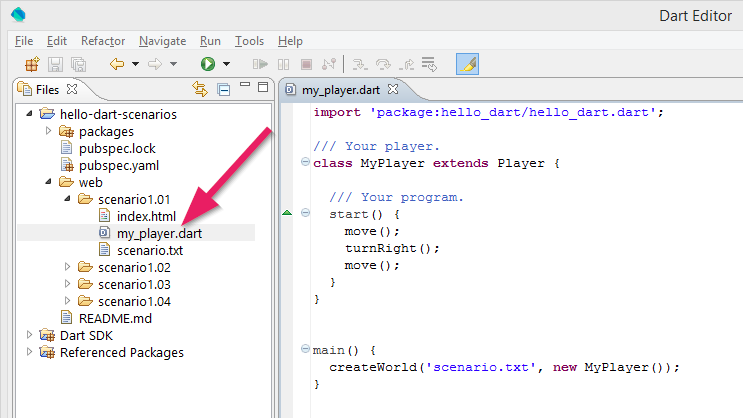
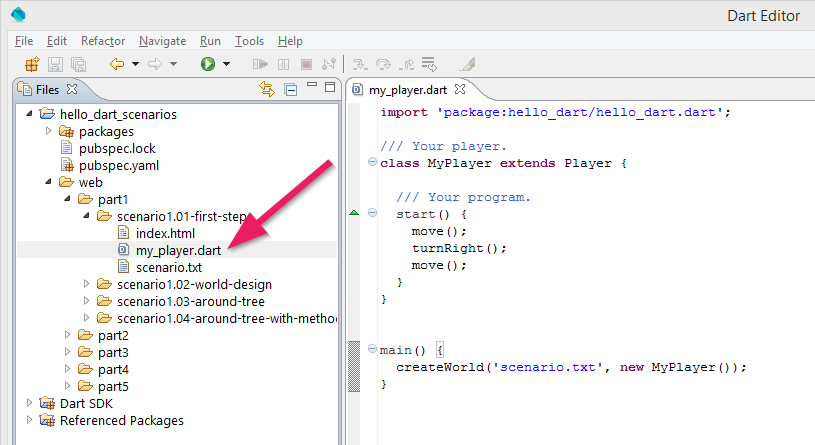
auto commit (mixture)

Changed region(s): [[0.0, 0.0, 1.0, 1.0], [0.8668, 0.0, 0.9906, 0.0622], [0.7429, 0.8708, 0.9287, 0.9019]]

diff --git a/library/hello-dart/de/install/index.html b/library/hello-dart/de/install/index.html
@@ -127,7 +127,7 @@
   </div>
 
   <div class="list-group">
-      <a href="https://www.dartlang.org/tools/editor/" class="list-group-item">
+      <a href="https://www.dartlang.org/tools/download.html" class="list-group-item">
 <i class="fa fa-fw fa-download"></i>        Dart Editor Download</a>
       <a href="https://github.com/marcojakob/hello-dart/releases" class="list-group-item">
 <i class="fa fa-fw fa-download"></i>        Hello Dart Szenarien</a>
@@ -174,7 +174,7 @@
   <button type="button" class="btn btn-default dropdown-toggle" data-toggle="dropdown">Links <span class="caret"></span>
   </button>
   <ul class="dropdown-menu" role="menu">
-      <li class=""><a href="https://www.dartlang.org/tools/editor/">
+      <li class=""><a href="https://www.dartlang.org/tools/download.html">
 <i class="fa fa-fw fa-download"></i>        Dart Editor Download</a></li>
       <li class=""><a href="https://github.com/marcojakob/hello-dart/releases">
 <i class="fa fa-fw fa-download"></i>        Hello Dart Szenarien</a></li>
@@ -186,7 +186,11 @@
           </aside>
           
           <div class="article-content">
-            <p>Zum Programmieren von Dart brauchen wir den <strong>Dart Editor</strong> und die <code>Hello-Dart</code>-Szenarien.</p>
+            <p>Zum Programmieren brauchen wir... </p>
+<ul>
+<li>den <strong>Dart Editor</strong> und </li>
+<li>die <code>Hello-Dart</code>-Szenarien.</li>
+</ul>
 <h2 id="dart-editor-installieren">Dart Editor installieren</h2>
 <ol>
 <li><a href="https://www.dartlang.org/tools/download.html">Laden Sie den Dart Editor herunter</a></li>
@@ -234,10 +238,10 @@
 <p><img src="/assets/library/hello-dart/install/dart-editor.png" alt="Dart Editor"></p>
 <h2 id="-hello-dart-szenarien-ffnen"><code>Hello Dart</code> Szenarien öffnen</h2>
 <ol>
-<li>Laden Sie unter <a href="https://github.com/marcojakob/hello-dart/releases">Hello Dart-Releases</a> die aktuellste Version der Senarien herunter.  </li>
+<li>Laden Sie unter <a href="https://github.com/marcojakob/hello-dart/releases">Hello Dart-Releases</a> die Zip-Datei <code>hello_dart_scenarios.zip</code> herunter (nehmen Sie die neuste Version).  </li>
 <li>Entpacken Sie die Zip-Datei.</li>
-<li>Im Dart Editor: Klicken Sie auf <em>File</em> | <em>Open Existing Folder...</em>. Wählen Sie dort den Ordner <code>hello-dart-scenarios</code> aus, den Sie vorher entpackt haben.</li>
-<li>Öffnen Sie im Unterordner <code>web/scenario1.01</code> die Datei <code>my_player.dart</code> mit einem Doppelklick.   <p>
+<li>Im Dart Editor: Klicken Sie auf <em>File</em> | <em>Open Existing Folder...</em>. Wählen Sie dort den Ordner <code>hello_dart_scenarios</code> aus, den Sie vorher entpackt haben.</li>
+<li>Öffnen Sie im Unterordner <code>web/part1/scenario1.01</code> die Datei <code>my_player.dart</code> mit einem Doppelklick.   <p>
 <img src="/assets/library/hello-dart/install/my-player.png" alt="My Player">
 </p></li>
 <li>Klicken Sie auf das <em>Run</em>-Symbol <img src="/assets/library/hello-dart/install/run.png" alt="Run">.</li>
@@ -251,8 +255,7 @@
 <p><em>Quellen</em><br>
 <em class="small">
 <a href="http://www.lostgarden.com/2007/05/dancs-miraculously-flexible-game.html">Planet Cute</a> Bilder stammen von Daniel Cook (Lostgarden.com), veröffentlicht unter <a href="http://creativecommons.org/licenses/by/3.0/us/">CC BY 3.0</a>.<br>
-<a href="https://www.linkedin.com/in/olegyadrov">Oleg Yadrov</a> hat die "Planet Cute" Bilder weiterentwickelt und sie mir zur Verfügung gestellt.<br>
-Viele Übungen in <code>Hello Dart</code> sind inspiriert von <a href="http://www.swisseduc.ch/informatik/karatojava/">Kara</a>. Kara wurde entwickelt von Jürg Nievergelt, Werner Hartmann, Raimond Reichert und anderen.
+<a href="https://www.linkedin.com/in/olegyadrov">Oleg Yadrov</a> hat die "Planet Cute" Bilder weiterentwickelt und sie mir zur Verfügung gestellt.
 </em></p>
 
 

diff --git a/library/hello-dart/de/index.html b/library/hello-dart/de/index.html
@@ -168,7 +168,7 @@
 </blockquote>
 <p>Bisher war es kaum realistisch, als Programmieranfänger mobile oder webbasierte
 Applikationen zu entwickeln. Die Programmiersprache Dart bietet neue Möglichkeiten, wie solche Applikationen viel einfacher programmiert werden können.</p>
-<p><code>Hello Dart</code> setzt keine Programmierkenntnisse voraus und führt Sie schrittweise durch die Grundlagen der Programmierung. Die spielerische Welt von <code>Hello Dart</code> veranschaulicht Ihre Programme. Bald werden sie aber aus den engen Regeln dieser Welt ausbrechen wollen, was auch das Ziel ist. Nach der Einführung mit <code>Hello Dart</code> werden wir bereits Programmierprojekte realisieren, wie sie in der professionellen Softwareentwicklung durchgeführt werden.</p>
+<p><code>Hello Dart</code> setzt keine Programmierkenntnisse voraus und führt Sie schrittweise durch die Grundlagen der Programmierung. Die spielerische Welt von <code>Hello Dart</code> veranschaulicht Ihre Programme. Bald werden sie aber aus den engen Regeln dieser Welt ausbrechen wollen, was auch das Ziel ist. Nach der Einführung mit <code>Hello Dart</code> haben Sie eine gute Grundlage, um werden wir bereits Programmierprojekte realisieren, wie sie in der professionellen Softwareentwicklung durchgeführt werden.</p>
 <h2 id="die-welt">Die Welt</h2>
 <p>Die Welt von <code>Hello Dart</code> besteht aus Feldern, Bäumen und Sternen.</p>
 <p><img src="/assets/library/hello-dart/intro/elements.png" alt="Elemente"></p>
@@ -268,8 +268,7 @@ Applikationen zu entwickeln. Die Programmiersprache Dart bietet neue Möglichkei
 <p><em>Quellen</em><br>
 <em class="small">
 <a href="http://www.lostgarden.com/2007/05/dancs-miraculously-flexible-game.html">Planet Cute</a> Bilder stammen von Daniel Cook (Lostgarden.com), veröffentlicht unter <a href="http://creativecommons.org/licenses/by/3.0/us/">CC BY 3.0</a>.<br>
-<a href="https://www.linkedin.com/in/olegyadrov">Oleg Yadrov</a> hat die "Planet Cute" Bilder weiterentwickelt und sie mir zur Verfügung gestellt.<br>
-Viele Übungen in <code>Hello Dart</code> sind inspiriert von <a href="http://www.swisseduc.ch/informatik/karatojava/">Kara</a>. Kara wurde entwickelt von Jürg Nievergelt, Werner Hartmann, Raimond Reichert und anderen.
+<a href="https://www.linkedin.com/in/olegyadrov">Oleg Yadrov</a> hat die "Planet Cute" Bilder weiterentwickelt und sie mir zur Verfügung gestellt.
 </em></p>
 
 

diff --git a/library/hello-dart/de/background/index.html b/library/hello-dart/de/background/index.html
@@ -169,12 +169,13 @@
 <ul>
 <li>Wenn Sie meine Unterlagen oder Programme verwenden, müssen Sie klar angeben, dass dieses Material von mir stammt. Die Angabe muss meinen Namen, einen Link zum Original und einen Link zur Lizenz enthalten. Es könnte etwa so aussehen, wie meine Quellenangaben für die Bilder unten an den Seiten.</li>
 </ul>
+<h2 id="danksagung">Danksagung</h2>
+<p>Herzlichen Dank an die <a href="http://www.haslerstiftung.ch/">Hasler Stiftung</a> für die Mitfinanzierung des Unterrichtsmaterials zu <code>Hello Dart</code>.</p>
 <hr>
 <p><em>Quellen</em><br>
 <em class="small">
 <a href="http://www.lostgarden.com/2007/05/dancs-miraculously-flexible-game.html">Planet Cute</a> Bilder stammen von Daniel Cook (Lostgarden.com), veröffentlicht unter <a href="http://creativecommons.org/licenses/by/3.0/us/">CC BY 3.0</a>.<br>
-<a href="https://www.linkedin.com/in/olegyadrov">Oleg Yadrov</a> hat die "Planet Cute" Bilder weiterentwickelt und sie mir zur Verfügung gestellt.<br>
-Viele Übungen in <code>Hello Dart</code> sind inspiriert von <a href="http://www.swisseduc.ch/informatik/karatojava/">Kara</a>. Kara wurde entwickelt von Jürg Nievergelt, Werner Hartmann, Raimond Reichert und anderen.
+<a href="https://www.linkedin.com/in/olegyadrov">Oleg Yadrov</a> hat die "Planet Cute" Bilder weiterentwickelt und sie mir zur Verfügung gestellt.
 </em></p>
 
 

diff --git a/library/hello-dart/de/part5/index.html b/library/hello-dart/de/part5/index.html
@@ -305,6 +305,13 @@ multiMove(twoTimes(4));
 <h3 id="feedback">Feedback</h3>
 <p>Ich freue mich von Ihnen zu hören. Schreiben Sie einen Kommentar, wenn Sie die Serie glücklich beendet haben oder auch, wenn Sie Verbesserungsvorschläge haben. <a href="#disqus_thread"><i class="fa fa-comment-o"></i></a></p>
 <p><i class="fa fa-beer"></i> Marco</p>
+<hr>
+<p><em>Quellen</em><br>
+<em class="small">
+<a href="http://www.lostgarden.com/2007/05/dancs-miraculously-flexible-game.html">Planet Cute</a> Bilder stammen von Daniel Cook (Lostgarden.com), veröffentlicht unter <a href="http://creativecommons.org/licenses/by/3.0/us/">CC BY 3.0</a>.<br>
+<a href="https://www.linkedin.com/in/olegyadrov">Oleg Yadrov</a> hat die "Planet Cute" Bilder weiterentwickelt und sie mir zur Verfügung gestellt.<br>
+Einige Übungen in <code>Hello Dart</code> sind inspiriert von <a href="http://www.swisseduc.ch/informatik/karatojava/">Kara</a>. Kara wurde entwickelt von Jürg Nievergelt, Werner Hartmann, Raimond Reichert und anderen.
+</em></p>
 
 
           </div>

diff --git a/library/hello-dart/de/part2/index.html b/library/hello-dart/de/part2/index.html
@@ -276,7 +276,7 @@ for (var i = 0; i &lt; 4; i++) {
 <em class="small">
 <a href="http://www.lostgarden.com/2007/05/dancs-miraculously-flexible-game.html">Planet Cute</a> Bilder stammen von Daniel Cook (Lostgarden.com), veröffentlicht unter <a href="http://creativecommons.org/licenses/by/3.0/us/">CC BY 3.0</a>.<br>
 <a href="https://www.linkedin.com/in/olegyadrov">Oleg Yadrov</a> hat die "Planet Cute" Bilder weiterentwickelt und sie mir zur Verfügung gestellt.<br>
-Viele Übungen in <code>Hello Dart</code> sind inspiriert von <a href="http://www.swisseduc.ch/informatik/karatojava/">Kara</a>. Kara wurde entwickelt von Jürg Nievergelt, Werner Hartmann, Raimond Reichert und anderen.
+Einige Übungen in <code>Hello Dart</code> sind inspiriert von <a href="http://www.swisseduc.ch/informatik/karatojava/">Kara</a>. Kara wurde entwickelt von Jürg Nievergelt, Werner Hartmann, Raimond Reichert und anderen.
 </em></p>
 
 

diff --git a/library/hello-dart/de/part3/index.html b/library/hello-dart/de/part3/index.html
@@ -308,7 +308,7 @@ class MyPlayer extends Player {
 <em class="small">
 <a href="http://www.lostgarden.com/2007/05/dancs-miraculously-flexible-game.html">Planet Cute</a> Bilder stammen von Daniel Cook (Lostgarden.com), veröffentlicht unter <a href="http://creativecommons.org/licenses/by/3.0/us/">CC BY 3.0</a>.<br>
 <a href="https://www.linkedin.com/in/olegyadrov">Oleg Yadrov</a> hat die "Planet Cute" Bilder weiterentwickelt und sie mir zur Verfügung gestellt.<br>
-Viele Übungen in <code>Hello Dart</code> sind inspiriert von <a href="http://www.swisseduc.ch/informatik/karatojava/">Kara</a>. Kara wurde entwickelt von Jürg Nievergelt, Werner Hartmann, Raimond Reichert und anderen.
+Einige Übungen in <code>Hello Dart</code> sind inspiriert von <a href="http://www.swisseduc.ch/informatik/karatojava/">Kara</a>. Kara wurde entwickelt von Jürg Nievergelt, Werner Hartmann, Raimond Reichert und anderen.
 </em></p>
 
 

diff --git a/library/hello-dart/de/part1/index.html b/library/hello-dart/de/part1/index.html
@@ -262,7 +262,7 @@ goAroundTree() {
 <em class="small">
 <a href="http://www.lostgarden.com/2007/05/dancs-miraculously-flexible-game.html">Planet Cute</a> Bilder stammen von Daniel Cook (Lostgarden.com), veröffentlicht unter <a href="http://creativecommons.org/licenses/by/3.0/us/">CC BY 3.0</a>.<br>
 <a href="https://www.linkedin.com/in/olegyadrov">Oleg Yadrov</a> hat die "Planet Cute" Bilder weiterentwickelt und sie mir zur Verfügung gestellt.<br>
-Viele Übungen in <code>Hello Dart</code> sind inspiriert von <a href="http://www.swisseduc.ch/informatik/karatojava/">Kara</a>. Kara wurde entwickelt von Jürg Nievergelt, Werner Hartmann, Raimond Reichert und anderen.
+Einige Übungen in <code>Hello Dart</code> sind inspiriert von <a href="http://www.swisseduc.ch/informatik/karatojava/">Kara</a>. Kara wurde entwickelt von Jürg Nievergelt, Werner Hartmann, Raimond Reichert und anderen.
 </em></p>
 
 

diff --git a/library/hello-dart/de/part4/index.html b/library/hello-dart/de/part4/index.html
@@ -405,6 +405,13 @@ while (i &lt; 5) {
 <hr>
 <h2 id="wie-weiter-">Wie weiter?</h2>
 <p>Fahren Sie weiter mit <a href="/library/hello-dart/de/part5/">Teil 5: Methoden</a></p>
+<hr>
+<p><em>Quellen</em><br>
+<em class="small">
+<a href="http://www.lostgarden.com/2007/05/dancs-miraculously-flexible-game.html">Planet Cute</a> Bilder stammen von Daniel Cook (Lostgarden.com), veröffentlicht unter <a href="http://creativecommons.org/licenses/by/3.0/us/">CC BY 3.0</a>.<br>
+<a href="https://www.linkedin.com/in/olegyadrov">Oleg Yadrov</a> hat die "Planet Cute" Bilder weiterentwickelt und sie mir zur Verfügung gestellt.<br>
+Einige Übungen in <code>Hello Dart</code> sind inspiriert von <a href="http://www.swisseduc.ch/informatik/karatojava/">Kara</a>. Kara wurde entwickelt von Jürg Nievergelt, Werner Hartmann, Raimond Reichert und anderen.
+</em></p>
 
 
           </div>
